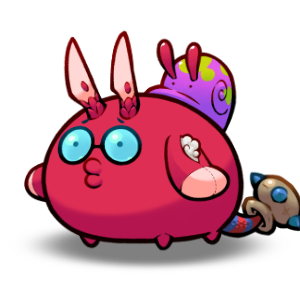
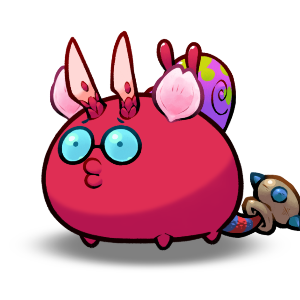
Atualizacao automatica de levels, morph e imagens
Claude-Session: https://claude.ai/code/session_01NmvzpLJ4TyYz1MQDCyp962

diff --git a/data.js b/data.js
@@ -17720,8 +17720,8 @@ const AXIE_DATA = [
     "genesisParts": {},
     "isMorphed": true,
     "morphParts": null,
[1 lines of base64/hex data omitted]
-    "level": 48
[1 lines of base64/hex data omitted]
+    "level": 49
   },
   {
     "id": "4211",
